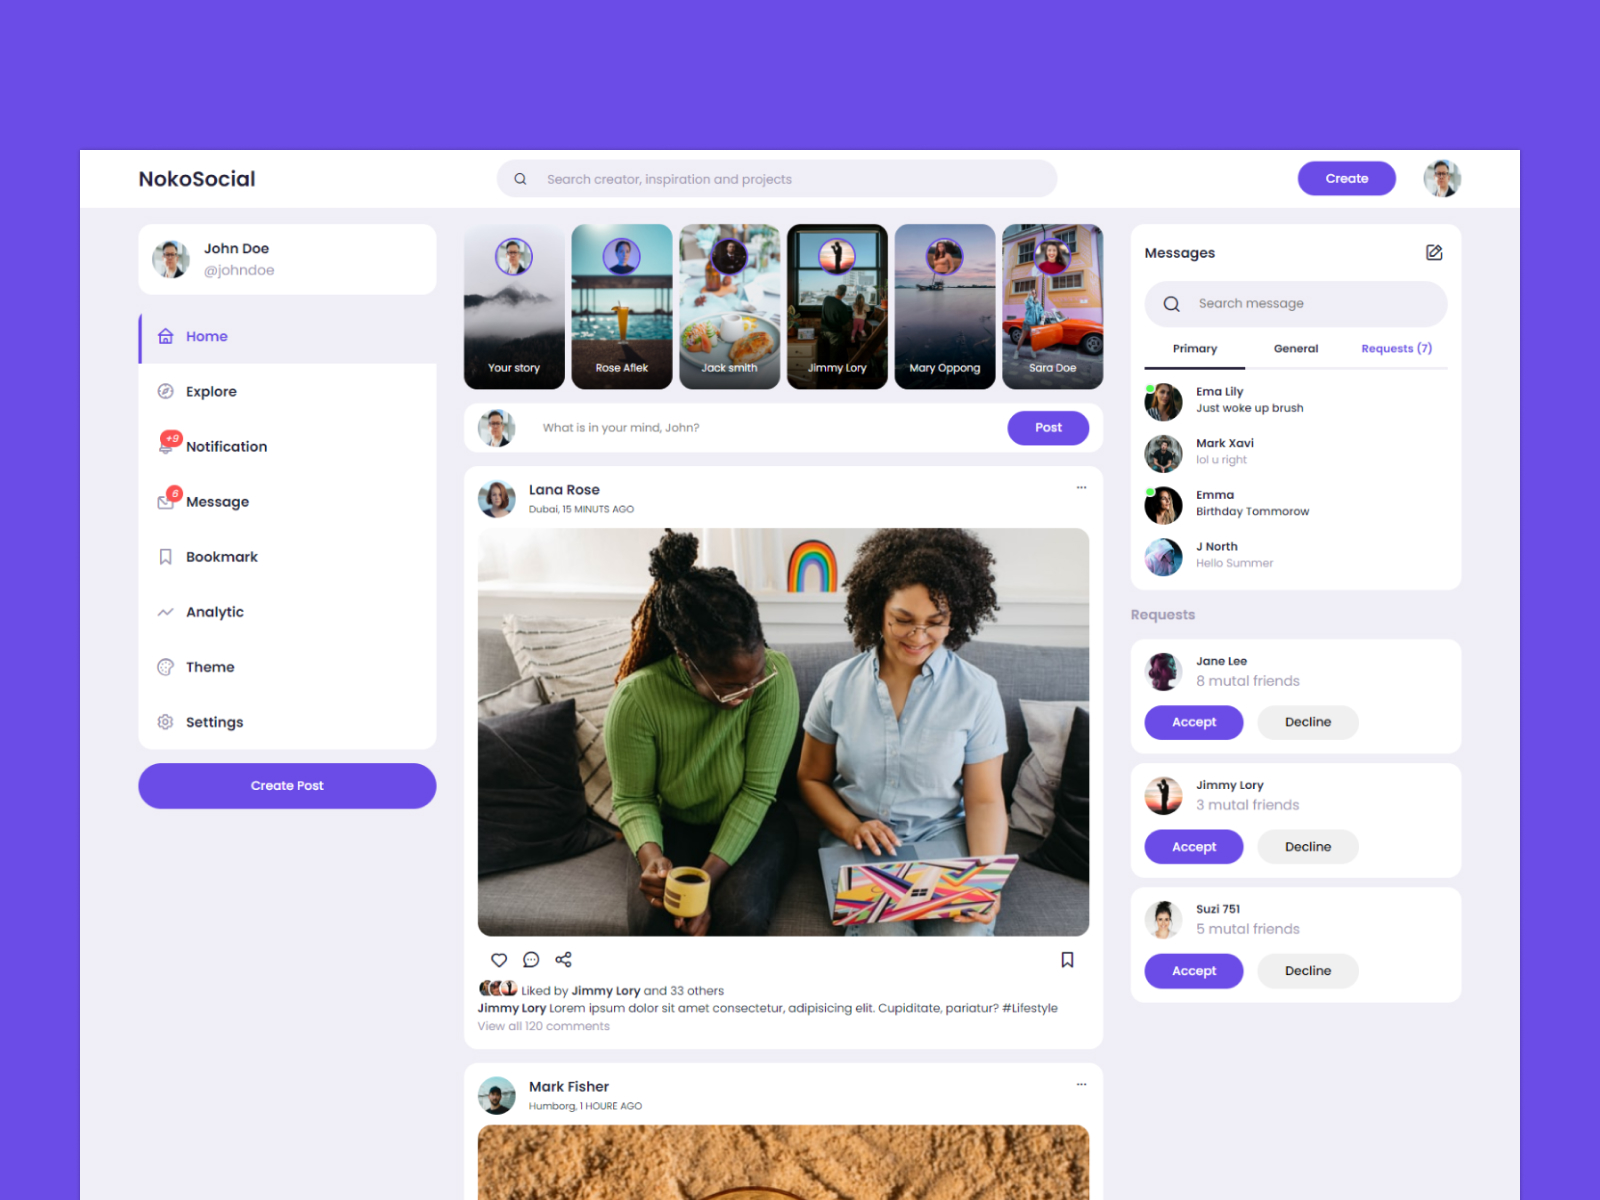
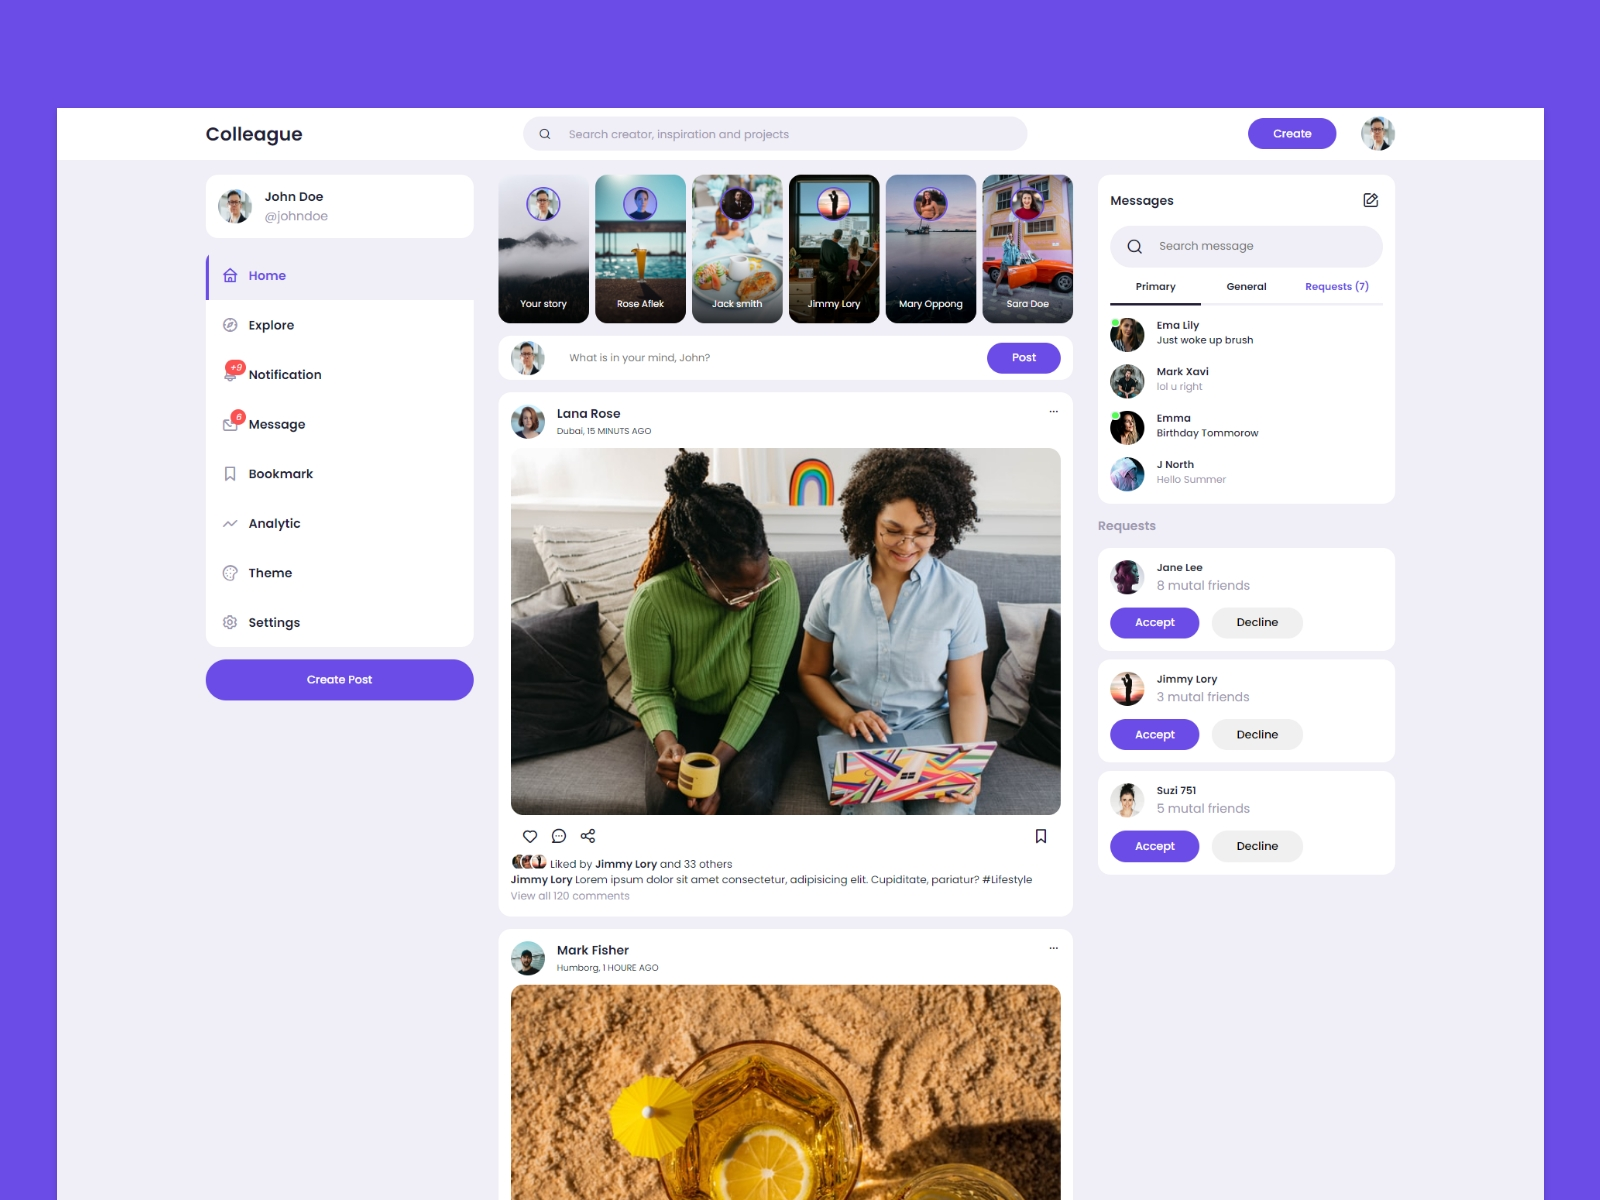
23-3-1401

diff --git a/projects/mosallas.html b/projects/mosallas.html
@@ -8,14 +8,11 @@
     <link rel="stylesheet" href="https://cdnjs.cloudflare.com/ajax/libs/font-awesome/6.1.1/css/all.min.css" integrity="sha512-KfkfwYDsLkIlwQp6LFnl8zNdLGxu9YAA1QvwINks4PhcElQSvqcyVLLD9aMhXd13uQjoXtEKNosOWaZqXgel0g==" crossorigin="anonymous" referrerpolicy="no-referrer" />
     <link rel="stylesheet" href="https://cdn.jsdelivr.net/npm/bootstrap@4.6.1/dist/css/bootstrap.min.css">
     <link rel="stylesheet" href="../style.css">
-
-
-  <script src="https://cdn.jsdelivr.net/npm/jquery@3.6.0/dist/jquery.slim.min.js"></script>
-  <script src="https://cdn.jsdelivr.net/npm/popper.js@1.16.1/dist/umd/popper.min.js"></script>
-  <script src="https://cdn.jsdelivr.net/npm/bootstrap@4.6.1/dist/js/bootstrap.bundle.min.js"></script>
-
+    <script src="https://cdn.jsdelivr.net/npm/jquery@3.6.0/dist/jquery.slim.min.js"></script>
+    <script src="https://cdn.jsdelivr.net/npm/popper.js@1.16.1/dist/umd/popper.min.js"></script>
+    <script src="https://cdn.jsdelivr.net/npm/bootstrap@4.6.1/dist/js/bootstrap.bundle.min.js"></script>
     
-      <title>Torse Website</title>
+      <title>Mosallas Website</title>
 </head>
 <body>
   
@@ -36,24 +33,25 @@
             <div class="row">
                 <div class="col-md-6 align-self-center">
                   
-                    <h1 class="title-medium mb-3 mt-2">Torse Website</h1>
+                    <h1 class="title-medium mb-3 mt-2">Mosallas 
+                      Advertising agency Website.</h1>
                     <div class="items">
                         <div >
-                            <p><b class="praph ">Role: </b>UI/Ux & Web Designer (freelancer)</p>
+                            <p><b class="praph ">Role: </b>UI/UX and Web Designer</p>
                         </div>
                         <div>
-                            <p><b class="praph ">Timeline: </b>2 months (March - April 2022)</p>
+                            <p><b class="praph ">Timeline: </b>2 months (October - November 2017)</p>
                         </div>
                     </div>
 
                     <h3 class="text-secondary font-weight-bold mt-4">Overview</h3>
-                    <p className='mt-3 font-normal'>Torse is jewelry brand, combining hand-made jewelries with Persian traditional valuable art, woodwork and inlay.</p>
-                    <p class="mt-3"><a href="http://torsejewelry.com" target="_blank" title="Torse website" class="readmore">View Website <i class="fa-solid fa-arrow-right"></i></a></p>
+                    <p className='mt-3 font-normal'>Mosallas Company is printing, website design and advertising agency. </p>
+                    <p class="mt-3"><a href="https://mosallas.net" target="_blank" title="Mosallas Design website" class="readmore">View Website <i class="fa-solid fa-arrow-right"></i></a></p>
 
                  
                 </div>
                 <div class="col-md-6">
-                   <img src="../img/project/torse/torse-preview.jpg" class="image mt-2" alt="Torse website">
+                   <img src="../img/project/mosallas/mosallas.jpg" class="image mt-2" alt="Mosallas Design Website">
                        
                 </div>
             </div>
@@ -66,46 +64,44 @@
               
             <h3 class='font-weight-bold mb-3'>Preview</h3>
            
-  
-            <div id="demo" class="carousel slide mt-4" data-ride="carousel">
-        
-                
-                
-                <!-- The slideshow -->
-                <div class="carousel-inner">
-                  <div class="carousel-item active">
-                    <img src="../img/project/torse/1.jpg"  >
-                  </div>
-                  <div class="carousel-item">
-                    <img src="../img/project/torse/2.jpg"  >
-                  </div>
-                  <div class="carousel-item">
-                    <img src="../img/project/torse/3.jpg"  >
-                  </div>
-                  <div class="carousel-item">
-                    <img src="../img/project/torse/4.jpg"  >
-                  </div>
-                </div>
-                
-                <!-- Left and right controls -->
-                <a class="carousel-control-prev" href="#demo" data-slide="prev">
-                  <span class="carousel-control-prev-icon"></span>
-                </a>
-                <a class="carousel-control-next" href="#demo" data-slide="next">
-                  <span class="carousel-control-next-icon"></span>
-                </a>
-              </div>
-            
+           
+    <div id="demo" class="carousel slide mt-4" data-ride="carousel">
 
-  
+     
+      
+      <!-- The slideshow -->
+      <div class="carousel-inner">
+        <div class="carousel-item active">
+          <img src="../img/project/mosallas/1.jpg"  >
+        </div>
+        <div class="carousel-item">
+          <img src="../img/project/mosallas/2.jpg" >
+        </div>
+        <div class="carousel-item">
+          <img src="../img/project/mosallas/3.jpg" >
+        </div>
+        <div class="carousel-item">
+          <img src="../img/project/mosallas/4.jpg" >
+        </div>
+     
+      </div>
+
+      <!-- Left and right controls -->
+      <a class="carousel-control-prev" href="#demo" data-slide="prev">
+        <span class="carousel-control-prev-icon"></span>
+      </a>
+      <a class="carousel-control-next" href="#demo" data-slide="next">
+        <span class="carousel-control-next-icon"></span>
+      </a>
+    </div>
 
  
 
  
     <div class="navigation mt-4">
      
-    <a href="kimyagaranwebsite.html"  title="Kimyagaran website" class="primary-btn">Prev</a>
-    <a href="cinema.html"  title="Theater App " class="primary-btn">Next</a>
+    <a href="iicic.html"  title="IICIC Website" class="primary-btn">Prev</a>
+    
    
   </div>
 

diff --git a/index.html b/index.html
@@ -137,7 +137,7 @@ Passionate about making products with a result-driven and process-centric approa
      <div class="row">
        <div class="col-md-6">
         <p class="tag mb-4 ">My experiences</p>
-        <h2 class="title-medium mb-5">12 years experience as web Designer  and UI/UX Designer</h2>
+        <h2 class="title-medium mb-5">Over 10 years experience as web Designer  and UI/UX Designer</h2>
         <div class="row">
             <div class="col-md-6 image ex-icon icon1">
         <img src='./img/exp1.png' />
@@ -189,7 +189,7 @@ Passionate about making products with a result-driven and process-centric approa
           <div class="text-center">
             <p class="tag mb-4  ">Projects</p>
           </div>
-          <h2 class="title-medium mb-9  text-center ">Take a Look At Some of My Projects</h2>
+          <h2 class="title-medium mb-9  text-center ">Take a look at some of my projects</h2>
           <div class="row">
             <div class="col-md-4">
               <div class='card mt-4'>
@@ -310,6 +310,27 @@ Passionate about making products with a result-driven and process-centric approa
              </div>
             </div>
           </div>
+          <div class="row">
+            <div class="col-md-4">
+              <div class='card mt-4'>
+                <div class='card-browser'>
+                    <div class='circle'></div>
+                    <div class='circle'></div>
+                    <div class='circle'></div>
+                    
+                </div>
+                <img src="./img/project/mosallas/mosallas-prw.jpg" class='card-img' />
+                <a href="./projects/mosallas.html">
+                <div class='overlay'>
+                   <p class='projectname'>IICIC website</p>
+             <i class='fas fa-eye showmore'></i>
+     
+              </div>
+            </a>
+              
+             </div>
+            </div>
+          </div>
         </div>
       </section>
       
@@ -350,7 +371,7 @@ Passionate about making products with a result-driven and process-centric approa
                 </div>
               </div>
 
-              <h2 class="title-medium mt-4">Feel free for contact to me!!</h2>
+              <h2 class="title-medium mt-4">Send your message through the form below</h2>
               <form id="my-form" action="https://formspree.io/f/xbjwponv" method="POST">
               <div class="row">
                 <div class="col-md-6">

diff --git a/projects/social.html b/projects/social.html
@@ -9,7 +9,7 @@
     <link rel="stylesheet" href="https://cdnjs.cloudflare.com/ajax/libs/font-awesome/6.1.1/css/all.min.css" integrity="sha512-KfkfwYDsLkIlwQp6LFnl8zNdLGxu9YAA1QvwINks4PhcElQSvqcyVLLD9aMhXd13uQjoXtEKNosOWaZqXgel0g==" crossorigin="anonymous" referrerpolicy="no-referrer" />
     <link rel="stylesheet" href="../style.css">
     
-      <title>Social Website</title>
+      <title>Colleague Web App</title>
 </head>
 <body>
   
@@ -30,7 +30,7 @@
             <div class="row">
                 <div class="col-md-6 align-self-center">
                   
-                    <h1 class="title-medium mb-3 mt-2">Social media Website.</h1>
+                    <h1 class="title-medium mb-3 mt-2">Colleague Web App</h1>
                     <div class="items">
                         <div >
                             <p><b class="praph ">Role: </b>UI Designer</p>
@@ -41,7 +41,7 @@
                     </div>
 
                     <h3 class="text-secondary font-weight-bold mt-4">Overview</h3>
-                    <p className='mt-3 font-normal'>social media website for employees which they could contact to gether and share their knowladge </p>
+                    <p className='mt-3 font-normal'>Colleague Web App is internal website for employees which they could contact together and share their daily events. </p>
                     <p class="mt-3"><a href="https://hemasi63.github.io/socialpanel/" target="_blank" title="social media website" class="readmore">View Demo <i class="fa-solid fa-arrow-right"></i></a></p>
 
                  

diff --git a/projects/come2pattaya.html b/projects/come2pattaya.html
@@ -39,12 +39,12 @@
                             <p><b class="praph ">Role: </b>UI/Ux & Web Designer</p>
                         </div>
                         <div>
-                            <p><b class="praph ">Timeline: </b>2 months (May 2018- June 2018)</p>
+                            <p><b class="praph ">Timeline: </b>2 months (May - June 2018)</p>
                         </div>
                     </div>
 
                     <h3 class="text-secondary font-weight-bold mt-4">Overview</h3>
-                    <p className='mt-3 font-normal'>Come2pattaya is a website which customers can book hotles, appartments, villas and ... </p>
+                    <p className='mt-3 font-normal'>Come2pattaya is a website which customers can book hotles, appartments, villas. </p>
              
                  
                 </div>

diff --git a/projects/iicic.html b/projects/iicic.html
@@ -42,7 +42,7 @@
                             <p><b class="praph ">Role: </b>UI/Ux & Web Designer (freelancer)</p>
                         </div>
                         <div>
-                            <p><b class="praph ">Timeline: </b>1 months (October 2016)</p>
+                            <p><b class="praph ">Timeline: </b>1 month (October 2016)</p>
                         </div>
                     </div>
 
@@ -100,6 +100,7 @@
     <div class="navigation mt-4">
      
     <a href="come2pattaya.html"  title="Come2pattaya website" class="primary-btn">Prev</a>
+    <a href="mosallas.html"  title="Mosallas website" class="primary-btn">Next</a>
     
    
   </div>

diff --git a/projects/kimyagaranwebsite.html b/projects/kimyagaranwebsite.html
@@ -39,7 +39,7 @@
                             <p><b class="praph ">Role: </b>UI/Ux Designer (freelancer)</p>
                         </div>
                         <div>
-                            <p><b class="praph ">Timeline: </b>1 month (Sep 2021)</p>
+                            <p><b class="praph ">Timeline: </b>1 month (September 2021)</p>
                         </div>
                     </div>
 

diff --git a/style.css b/style.css
@@ -701,6 +701,7 @@ padding: 1.5rem 0 1rem;}
    
     background-color: var(--color-secondary);
     color: var(--color-white);
+    text-decoration: none;
 
 }
 a.readmore{
